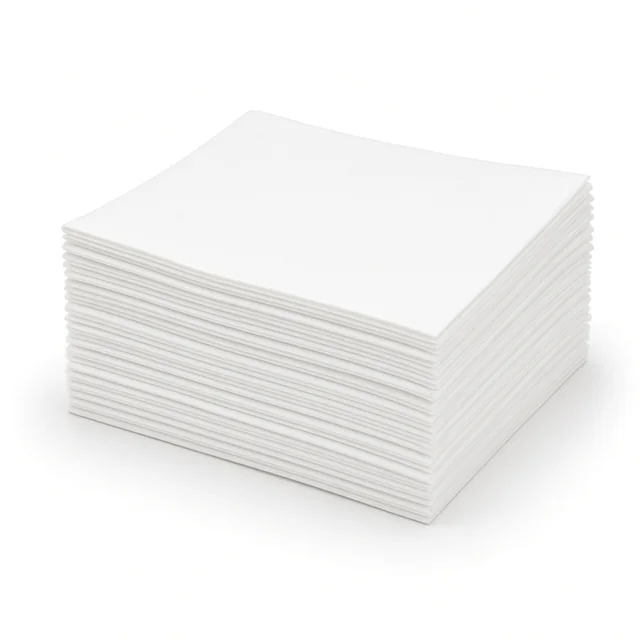
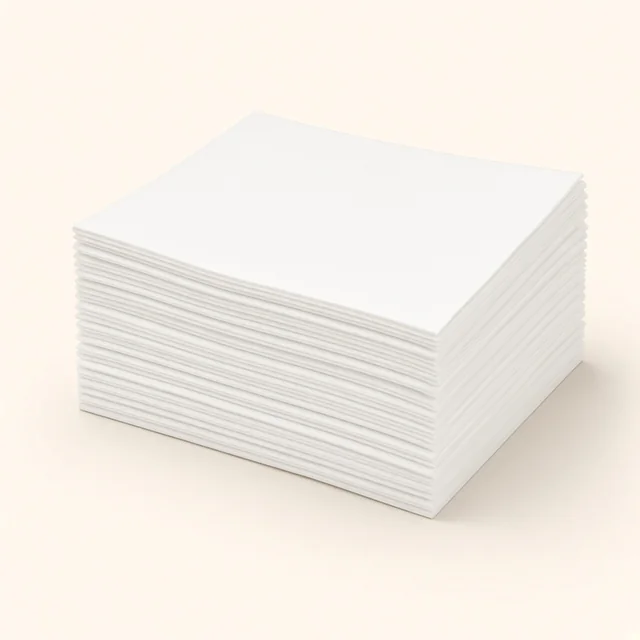
Unify Peçete catalog photos onto the same cream studio background.

diff --git a/tools/assign_product_images.py b/tools/assign_product_images.py
@@ -19,7 +19,7 @@ rules={
 default={'Hijyen':'fotosel','Temizlik':'detergent','Mutfak':'water','Ambalaj':'kese','PC':'usb','Sağlık':'masa','Kırtasiye':'a4'}
 # Specific product names must take precedence over broad family words.
 priority={
- 'Hijyen':[(r'z havlu','zkat'),(r'peçete dispenser','napkinholder'),(r'tuvalet.*dispenser|klozet.*dispenser','toiletdispenser'),(r'ıslak havlu koli','wipescarton'),(r'yüzey temizlik havlu','surfacewipes'),(r'z peçete','zfoldnapkin'),(r'renkli peçete','napkincolor'),(r'desenli peçete','napkinprint'),(r'kokteyl peçete','cocktailnapkin'),(r'garson katlama','garsonnapkin'),(r'dispenser peçete','vfoldnapkin'),(r'peçete 200','napkin200'),(r'peçete 100','pecete')],
+ 'Hijyen':[(r'z havlu','zkat'),(r'peçete dispenser','napkinholder'),(r'tuvalet.*dispenser|klozet.*dispenser','toiletdispenser'),(r'ıslak havlu koli','wipescarton'),(r'yüzey temizlik havlu','surfacewipes'),(r'z peçete','zfoldnapkin'),(r'renkli peçete','napkincolor'),(r'desenli peçete','napkinprint'),(r'kokteyl peçete','cocktailnapkin'),(r'garson katlama','garsonnapkin'),(r'dispenser peçete','vfoldnapkin'),(r'peçete 200','napkin200'),(r'peçete 100','napkin100')],
  'Temizlik':[(r'toz.*deterjan|deterjanı 10 kg|kapsül|makinesi tuzu','drycleaning')],
  'Mutfak':[(r'kapaklı yemek','bowl'),(r'bardak kapa','lid'),(r'bardak taşıyıcı|bardak kılıfı','cupcarrier'),(r'ice tea|soğuk çay','icedtea'),(r'çay','tea'),(r'süt','milk'),(r'meyve suyu','juice'),(r'soda|maden suyu','soda'),(r'enerji içece','energy'),(r'coffee mate|kahve kreması','creamer'),(r'filtre kâğıdı','filter'),(r'bardağı','bardak'),(r'masa örtüsü|servis kâğıdı','tablecover')],
  'Ambalaj':[(r'güvenlik bantlı','pouch'),(r'koli bandı makine','bant'),(r'band|bant','taperolls'),(r'kasa poşet','kasa')],

diff --git a/docs/HANDOFF.md b/docs/HANDOFF.md
@@ -160,5 +160,12 @@ Kullanıcı üç kartın birbirine ve 100’lü yığına benzediğini işaretle
 Cloudflare sürümü: cc155a74-d5d8-462a-9958-c8ec00600391.
 Önceki sürüm: d96560ec-a12b-4535-8c3c-d28f61983bae.
 
+## 20 Eylül — Peçete görsellerinde krem fon
+Kullanıcı kartlarda beyaz/krem karışık zemin gördü. 100’lü, desenli, Z ve garson görselleri aynı krem stüdyo zeminine çekildi.
+
+### Yayın tamamlandı
+Cloudflare sürümü: 712042b6-9d7c-4755-bb79-118266850d4b.
+Önceki sürüm: cc155a74-d5d8-462a-9958-c8ec00600391.
+
 
 
